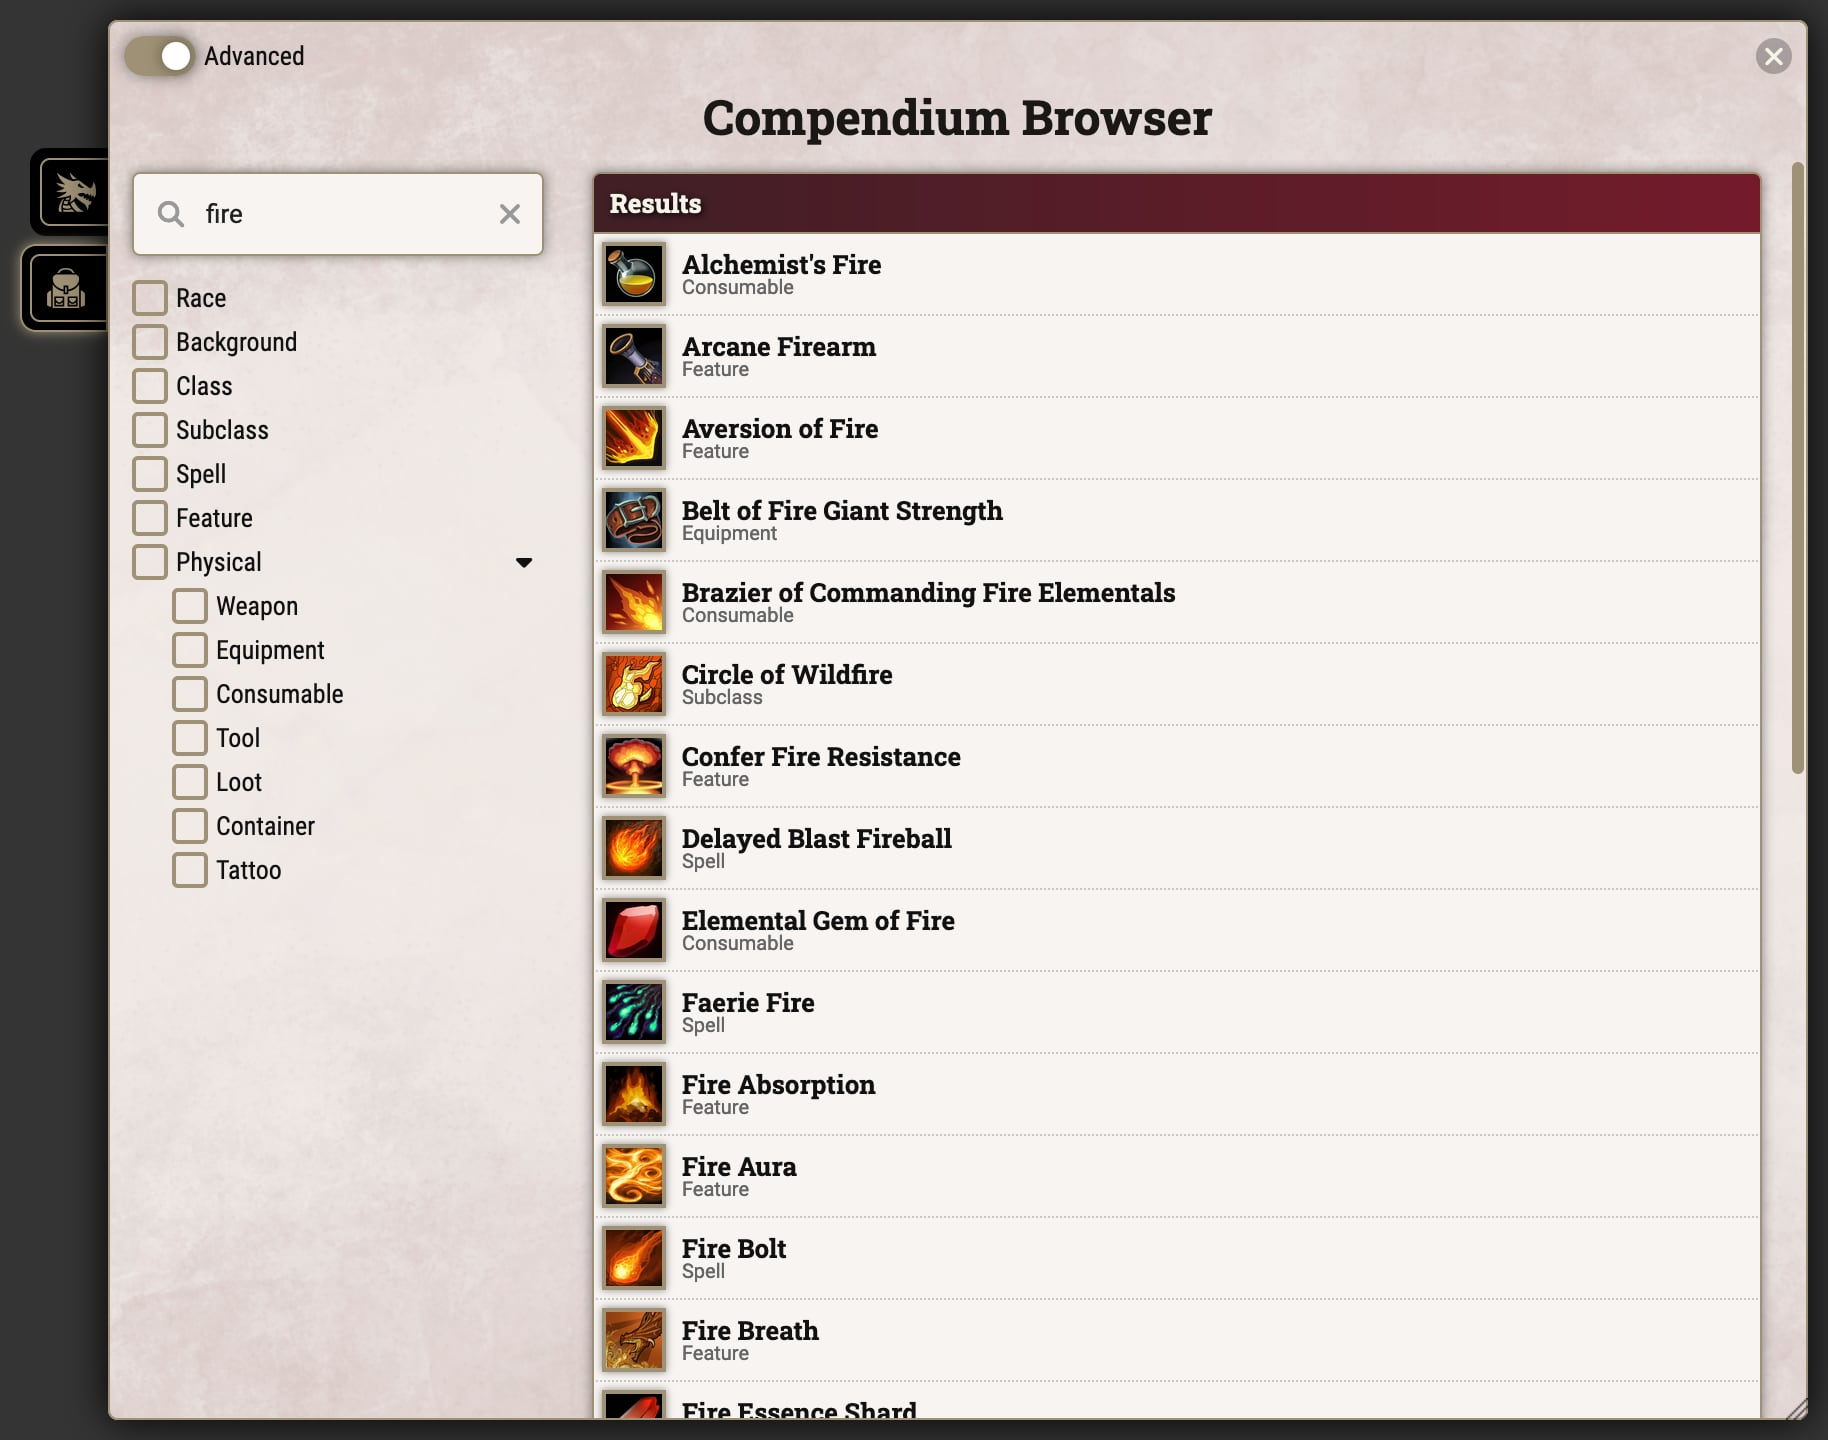
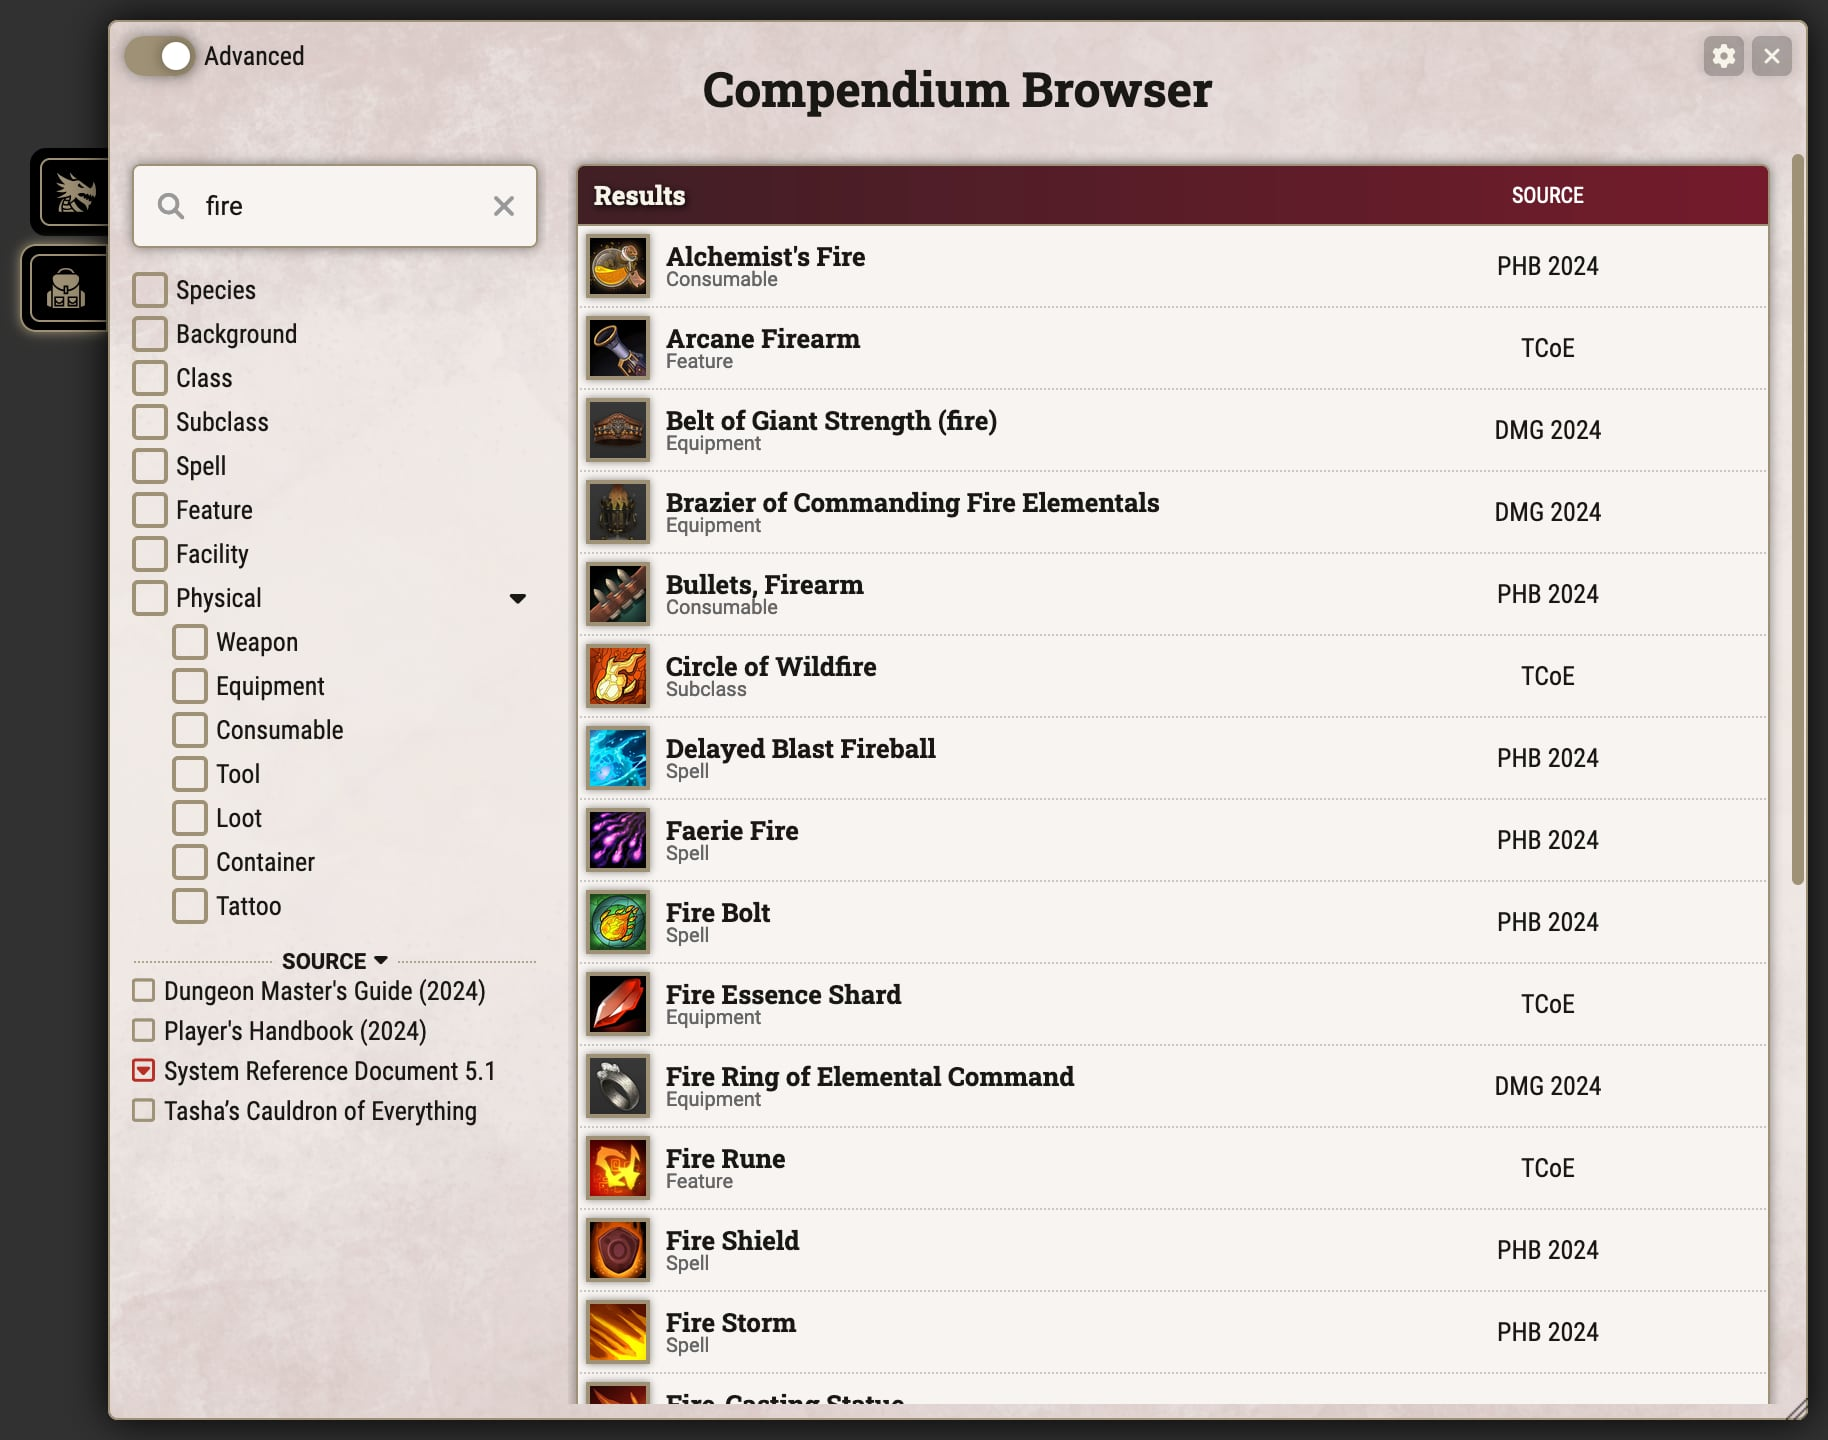
Implement various wiki changes for `4.1` release
- Add "Source Configuration" for Compendium Browser
- Add information on enchantment changes targeting activities
- Updated Compendium Browser screenshots showing new features
- Updated FAQ to link to PHB & DMG
- Add information on Rules Version setting and its changes

diff --git a/wiki/Enchantment.md b/wiki/Enchantment.md
@@ -1,4 +1,4 @@
-![Up to date as of 4.0.0](https://img.shields.io/static/v1?label=dnd5e&message=4.0.0&color=informational)
+![Up to date as of 4.1.0](https://img.shields.io/static/v1?label=dnd5e&message=4.1.0&color=informational)
 
 Enchantments are a special type of Active Effect that makes changes on the item to which they are added, rather than the actor like normal Active Effects. They are configured in much the same way as normal Active Effects, but rely on different attribute keys that are documented below.
 
@@ -30,7 +30,7 @@ system.description.value
 
 #### Changing the Name
 
-You can reference the original name using a pair of curly brackets (`{}`) and the `override` change mode (e.g. `{}, +1` for a +1 weapon).
+You can reference the original name using a pair of curly brackets (`{}`) and the `override` change mode (e.g. `{}, +1` for a +1 weapon would result in `Shortsword, +1`).
 
 | Attribute Key | Change Mode | Effect Value | Roll Data? |
 | ------------- | ----------- | ------------ | ---------- |
@@ -44,7 +44,7 @@ You can reference the original name using a pair of curly brackets (`{}`) and th
 
 #### Changing the Description
 
-You can reference the original description using a pair of curly brackets (`{}`) and the `override` change mode (e.g. `{} <p>Some more description</p>`).
+You can reference the original description using a pair of curly brackets (`{}`) and the `override` change mode (e.g. `{} <p>Some more description</p>`) or use the `add` change mode to add to the end of the existing description. Note that any added description should be written using HTML, which can be copied from an existing item using the "Source HTML" button in the description editor.
 
 | Attribute Key              | Change Mode | Effect Value | Roll Data? |
 | -------------------------- | ----------- | ------------ | ---------- |
@@ -89,7 +89,6 @@ The valid effect values depend on the item type, and in the case of consumables 
 >
 > | Equipment Property   | Abbreviation          |
 > | -------------------- | --------------------- |
-> | Concentration        | `concentration`       |
 > | Magical              | `mgc`                 |
 > | Stealth Disadvantage | `stealthDisadvantage` |
 >
@@ -99,9 +98,8 @@ The valid effect values depend on the item type, and in the case of consumables 
 > <details>
 > <summary>Tool Properties</summary>
 >
-> | Tool Property   | Abbreviation          |
+> | Tool Property        | Abbreviation          |
 > | -------------------- | --------------------- |
-> | Concentration        | `concentration`       |
 > | Magical              | `mgc`                 |
 >
 > Source: `CONFIG.DND5E.validProperties.tool`
@@ -124,7 +122,6 @@ The valid effect values depend on the item type, and in the case of consumables 
 >
 > | Scroll Property | Abbreviation    |
 > | --------------- | --------------- |
-> | Concentration   | `concentration` |
 > | Magical         | `mgc`           |
 > | Ritual          | `ritual`        |
 > | Somatic         | `somatic`       |
@@ -383,3 +380,37 @@ Since damage is both a roll formula and damage type, you need to include both wh
 >
 > Source: `CONFIG.DND5E.damageTypes`
 > </details>
+
+## Activity Changes
+
+Enchantments can also target changes to item activities based on their type. This is done using the format `activities[<type>].<change path>`.
+
+### Attack Activity Examples
+
+#### Changing the Attack Ability
+
+| Attribute Key                       | Change Mode | Effect Value | Roll Data? |
+| ----------------------------------- | ----------- | ------------ | ---------- |
+| `activities[attack].attack.ability` | Override    | `[string]`   | No         |
+
+#### Setting Flat To Hit
+
+| Attribute Key                     | Change Mode | Effect Value | Roll Data? |
+| --------------------------------- | ----------- | ------------ | ---------- |
+| `activities[attack].attack.bonus` | Override    | `[formula]`  | Yes        |
+| `activities[attack].attack.flat`  | Override    | `true        | No         |
+
+#### Lowering the Critical Threshold
+
+| Attribute Key                                  | Change Mode | Effect Value | Roll Data? |
+| ---------------------------------------------- | ----------- | ------------ | ---------- |
+| `activities[attack].attack.critical.threshold` | Downgrade   | `[number]`   | No         |
+
+### Save Activity Examples
+
+#### Setting a Specific Save DC
+
+| Attribute Key                          | Change Mode | Effect Value | Roll Data? |
+| -------------------------------------- | ----------- | ------------ | ---------- |
+| `activities[save].save.dc.calculation` | Override    |              | No         |
+| `activities[save].save.dc.formula`     | Override    | `[formula]`  | Yes        |

diff --git a/wiki/FAQ.md b/wiki/FAQ.md
@@ -2,7 +2,7 @@
 
 # Frequently Asked Questions
 
-## How to Wildshape  
+## How to Wildshape
 To use the built-in Wild Shape feature, open the character sheet of the actor that you would like to transform, then drag the actor they should transform into onto that character sheet (e.g. open the Druid's character sheet and drag the Wolf actor onto it). In the resulting pop-up dialog, click the Wild Shape button. This must be done by the Gamemaster, unless the System Setting "Allow Polymorphing" is enabled, the player must also have "Observer" access to the actors they can transform into and the permissions to "Create New Actors" and "Create New Tokens". To exit Wild Shape, open the actor sheet and click the Restore Transformation button in the sheet's title bar. Because Players cannot have permissions to delete actors, if used by a player the transformed actor will remain, if used by the Gamemaster the transformed actor will be deleted.
 
 Unsoluble has a great video guide available here https://www.youtube.com/watch?v=YjcugG_akk4
@@ -13,8 +13,29 @@ Unsoluble has a great video guide available here https://www.youtube.com/watch?v
 ## How to create Spell Scrolls
 There are two ways to create a Spell Scroll from a spell, either by using the Right Click context menu and using the "Create Scroll" option or by dragging a Spell onto an Actor's Inventory tab. A dialog will be displayed with options as to what description should be shown and what levels the spell should be created at (defaults to the spell's base level). A reference to the spell scroll rules or their entire text from the SRD rules will be added to the spell's description.
 
-## What are the plans for the upcoming 2024 rulebook releases?
-In September Foundry will be publishing an official premium module for the updated Player's Handbook. Until the revised SRD is published in 2025 this will be the only way to access pre-made content from the new rulebooks in the system. Once the revised SRD is made available the content will be added to the system in the same way the SRD 5.1 content is currently available.
+## What are the plans for the 2024 rulebook releases?
+In Foundry publishes a official premium modules for the updated [Player's Handbook](http://foundryvtt.com/packages/dnd-players-handbook) and [Dungeon Master's Guide](https://foundryvtt.com/packages/dnd-dungeon-masters-guide), and the upcoming [Monster Manual](https://foundryvtt.com/packages/dnd-monster-manual) is available for pre-order. Until the revised SRD is published in 2025 this will be the only way to access pre-made content from the new rulebooks in the system. Once the revised SRD is made available the content will be added to the system in the same way the SRD 5.1 content is currently available.
 
 > [!IMPORTANT]
 > The current Dungeons & Dragons 5th Edition system will remain compatible with all content based on both the 2014 and the 2024 rulebook update.
+
+For the places where the 2024 rules and 2014 rules are mutually exclusive, there is a system setting that allows for toggling between them:
+
+![Rules Version Setting](https://raw.githubusercontent.com/foundryvtt/dnd5e/publish-wiki/wiki/images/settings/rules-version.jpg)
+
+This rule affects a number of things in the system including:
+ - DC 30 cap on concentration checks
+ - Exhaustion effects
+ - Recovered hit dice on a Long Rest
+ - Alert adding to initiative rolls
+ - Jack of All Trades applying to initiative
+ - Remarkable Athlete effect
+ - Former Half Progression for spell slots that rounds down
+ - Initial DC & attack to hit for player-crafted spell scrolls
+ - Language organization && presence of "Common Sign Language"
+ - Wild Shape transformation preset
+ - Several wording changes
+   - Armor Proficiency -> Armor Training
+   - Exotic Languages -> Rare Languages
+   - Race -> Species
+   - Radius -> Emmanation

diff --git a/wiki/Compendium-Browser.md b/wiki/Compendium-Browser.md
@@ -1,4 +1,4 @@
-![Up to date as of 4.0.0](https://img.shields.io/static/v1?label=dnd5e&message=4.0.0&color=informational)
+![Up to date as of 4.1.0](https://img.shields.io/static/v1?label=dnd5e&message=4.1.0&color=informational)
 
 The compendium browser is a new application for finding content from across multiple compendiums using searching and filtering. The browser can be accessed using the "Open Compendium Browser" button at the top of the Compendium Packs sidebar tab.
 
@@ -15,6 +15,12 @@ In advanced mode (seen below), the tabs are split into actor and item lists and 
 The browser can also be activated from elsewhere in the system in locked mode. In this case the browser will be locked to a specific item type and potentially additional filters could be automatically applied. This mode is used for places where a specific choice must be made, such as choosing a class for your character or selecting a creature to summon.
 
 ![Compendium Browser - Class Selection](https://raw.githubusercontent.com/foundryvtt/dnd5e/publish-wiki/wiki/images/compendium-browser/class-selection.jpg)
+
+## Source Configuration
+
+GMs have the option for modify what sources appear in the compendium browser, customizing which specific compendiums are offered by different modules. These options using the "Configure Sources" button in the system settings or the gear on the top right of the compendium browser itself.
+
+![Compendium Browser - Configure Sources](https://raw.githubusercontent.com/foundryvtt/dnd5e/publish-wiki/wiki/images/compendium-browser/configure-sources.jpg)
 
 ## Module Support
 

diff --git a/wiki/Active-Effect-Guide.md b/wiki/Active-Effect-Guide.md
@@ -1,4 +1,4 @@
-![Up to date as of 3.2.0](https://img.shields.io/static/v1?label=dnd5e&message=3.2.0&color=informational)
+![Up to date as of 4.1.0](https://img.shields.io/static/v1?label=dnd5e&message=4.1.0&color=informational)
 
 This document only covers Active Effects available to the Core dnd5e System.
 
